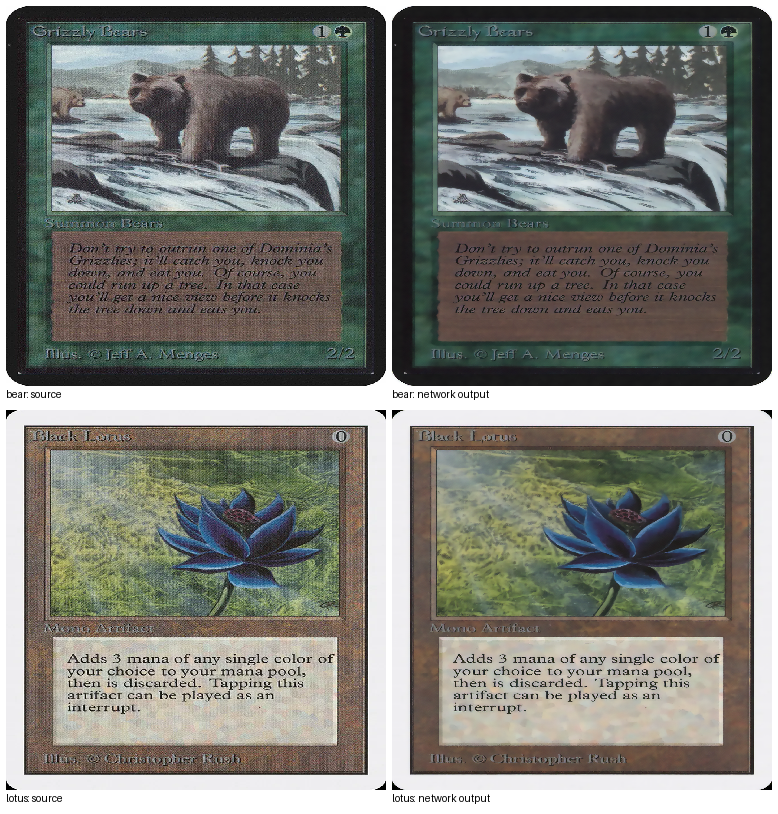
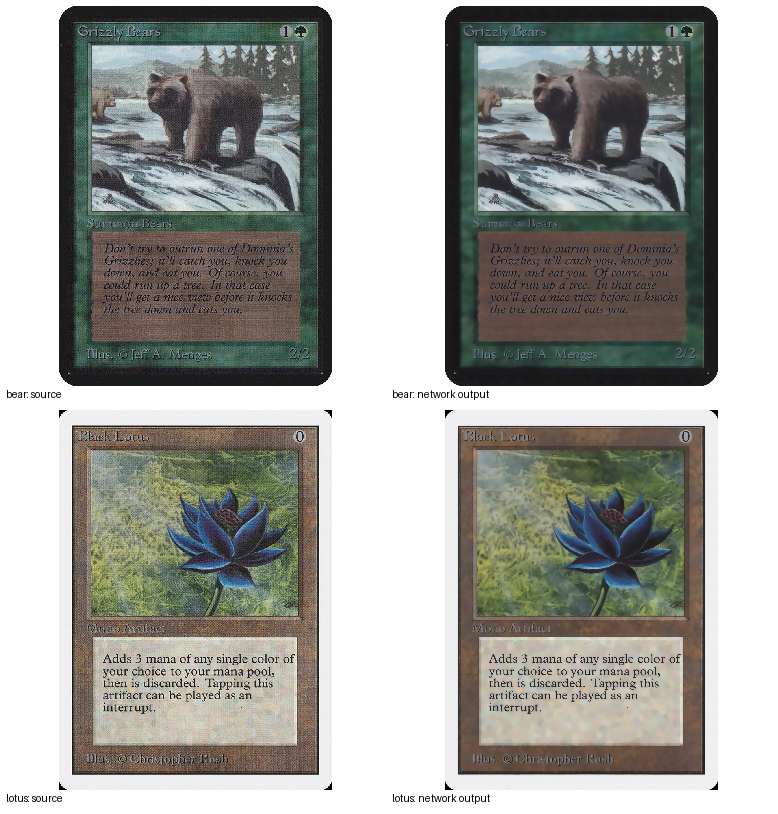
Fix make_panel distorting non-square images
resize((cell_size, cell_size)) forced every thumbnail into an exact
square regardless of source aspect ratio, stretching the portrait
bear/lotus card photos badly (less noticeable on the roughly-square
crops the other panels used). Now scales to fit within the cell and
centers it instead of stretching.

diff --git a/panel.py b/panel.py
@@ -16,8 +16,14 @@ def make_panel(labeled_images, filename, cols, cell_size=200, pad=6, label_h=18)
         r, c = divmod(i, cols)
         x = pad + c * (cell_size + pad)
         y = pad + r * (cell_size + label_h + pad)
-        thumb = Image.fromarray(img).resize((cell_size, cell_size), resample=Image.NEAREST)
-        panel.paste(thumb, (x, y))
+
+        im = Image.fromarray(img)
+        scale = min(cell_size / im.width, cell_size / im.height)
+        new_size = (max(1, round(im.width * scale)), max(1, round(im.height * scale)))
+        thumb = im.resize(new_size, resample=Image.NEAREST)
+        offset = (x + (cell_size - new_size[0]) // 2, y + (cell_size - new_size[1]) // 2)
+        panel.paste(thumb, offset)
+
         draw.text((x, y + cell_size + 2), label, fill="black", font=font)
 
     panel.save(filename)
